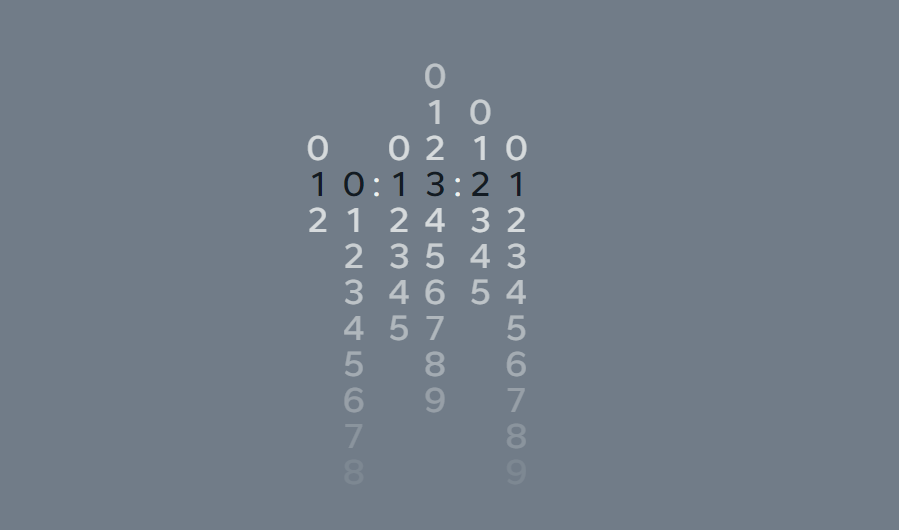
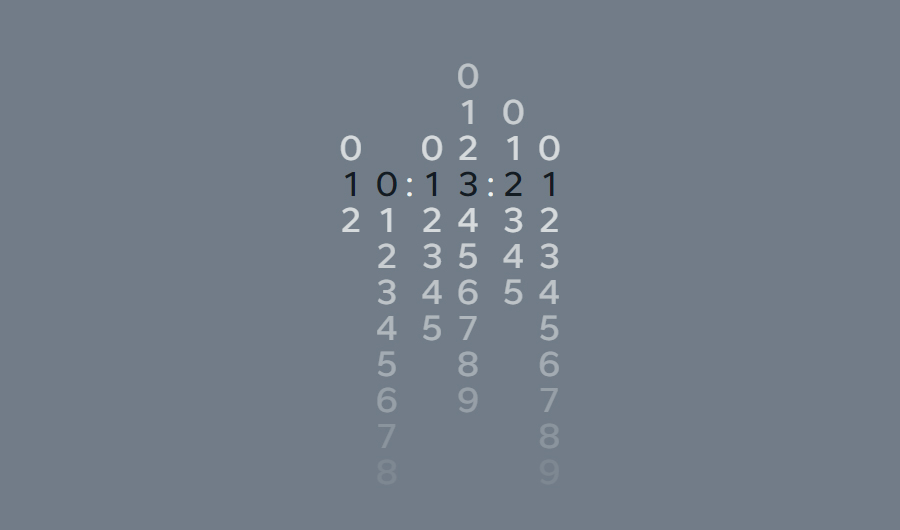
fix: projects restyle

Changed region(s): [[0.3426, 0.1208, 0.6229, 0.7849], [0.3737, 0.6642, 0.436, 0.7849], [0.5918, 0.8151, 0.6229, 0.8453]]

diff --git a/index.html b/index.html
@@ -86,38 +86,38 @@
                 <article class="project">
                     <h3 class="project__header">sliding clock</h3>
                     <img src="images/sliding-clock.jpg" alt="sliding clock image" class="project__image">
-                    <p class="project__text">A la mechanical clock, consisting of moving columns.</p>
-                    <a href="" class="project__github-link">see git repo</a>
+                    <p class="project__text">A la mechanical clock, consisting of moving columns. Opacity of digits is also configuring during the column shift.</p>
+                    <a href="" class="project__link">see git repo</a>
                 </article>
                 <article class="project">
                     <h3 class="project__header">english training</h3>
                     <img src="images/english.jpg" alt="english training image" class="project__image">
-                    <p class="project__text">Your task is to translate the words, loaded from an array. Mare often you mistranslate a word - more chance it will be loaded next time.</p>
-                    <a href="" class="project__github-link">see git repo</a>
+                    <p class="project__text">Your task is to translate the words, loaded from an array. More often you mistranslate a word - more chance it will be loaded next time.</p>
+                    <a href="" class="project__link">see git repo</a>
                 </article>
                 <article class="project">
                     <h3 class="project__header">Pomodoro</h3>
                     <img src="images/pomodoro.jpg" alt="pomodoro image" class="project__image">
                     <p class="project__text">Pomodoro technique timer with ability to set duration and count of sessions and breaks, pause and reset time.</p>
-                    <a href="" class="project__github-link">see git repo</a>
+                    <a href="" class="project__link">see git repo</a>
                 </article>
                 <article class="project">
                     <h3 class="project__header">todo list</h3>
                     <img src="images/todo.jpg" alt="todo list image" class="project__image">
-                    <p class="project__text">Default todo list: just adding and removing new tasks from the queue.</p>
-                    <a href="" class="project__github-link">see git repo</a>
+                    <p class="project__text">Default todo list: just adding new task, and complite it or remove it from the queue.</p>
+                    <a href="" class="project__link">see git repo</a>
                 </article>
                 <article class="project">
                     <h3 class="project__header">CV</h3>
                     <img src="images/cv.jpg" alt="CV image" class="project__image">
-                    <p class="project__text">Just a CV,created via html and css. With responsive design.</p>
-                    <a href="" class="project__github-link">see git repo</a>
+                    <p class="project__text">Just a CV,created via html and css. Used highlight.js for styling of pieces of code.</p>
+                    <a href="" class="project__link">see git repo</a>
                 </article>
                 <article class="project">
                     <h3 class="project__header">Sytyy lev</h3>
                     <img src="images/lev.jpg" alt="sytyy lev image" class="project__image">
                     <p class="project__text">Development, deployment and SEO of a food delivery website(ocStore 3.0 based)</p>
-                    <a href="" class="project__github-link">see the website</a>
+                    <a href="" class="project__link">see the website</a>
                 </article>
             </section>
         </section>

diff --git a/style.css b/style.css
@@ -13,6 +13,7 @@
 
 h1,h2,h3,h4,h5,h6{
     font-family: 'Bebas Neue', sans-serif;
+    text-transform: uppercase;
 }
 
 a {
@@ -76,7 +77,6 @@ a {
 
 .main {
     padding: 0 5%;
-    border: 1px solid red;
 }
 
 .section__header {
@@ -101,7 +101,7 @@ a {
 .skill-card{
     width: 17%;
     min-width: 120px;
-    height: 200px;
+    min-height: calc(var(--size-ratio) * 13);
     border: 1px solid black;
     background-color: white;
     text-align: center;
@@ -140,8 +140,35 @@ a {
 .project{
     width:49%;
     padding: 1%;
-    border: 1px solid blue;
+    margin: 3vh 0;
+    min-height: 75vmin;
+    display:flex;
+    flex-direction: column;
+    justify-content: space-around;
+    
 }
+
+.project__header{
+    font-size: calc(var(--size-ratio) * 1.5);
+}
+
 .project__image{
     width:100%;
+    background-position: center;
+    background-size: cover;
+}
+
+.project__text{
+    font-size: var(--size-ratio);
+    min-height: calc(var(--size-ratio) * 4);
+}
+
+.project__link{
+    font-size: calc(var(--size-ratio) * 1.2);
+    font-weight: 700;
+
+}
+
+.project__link:after{
+    content:"→";
 }
